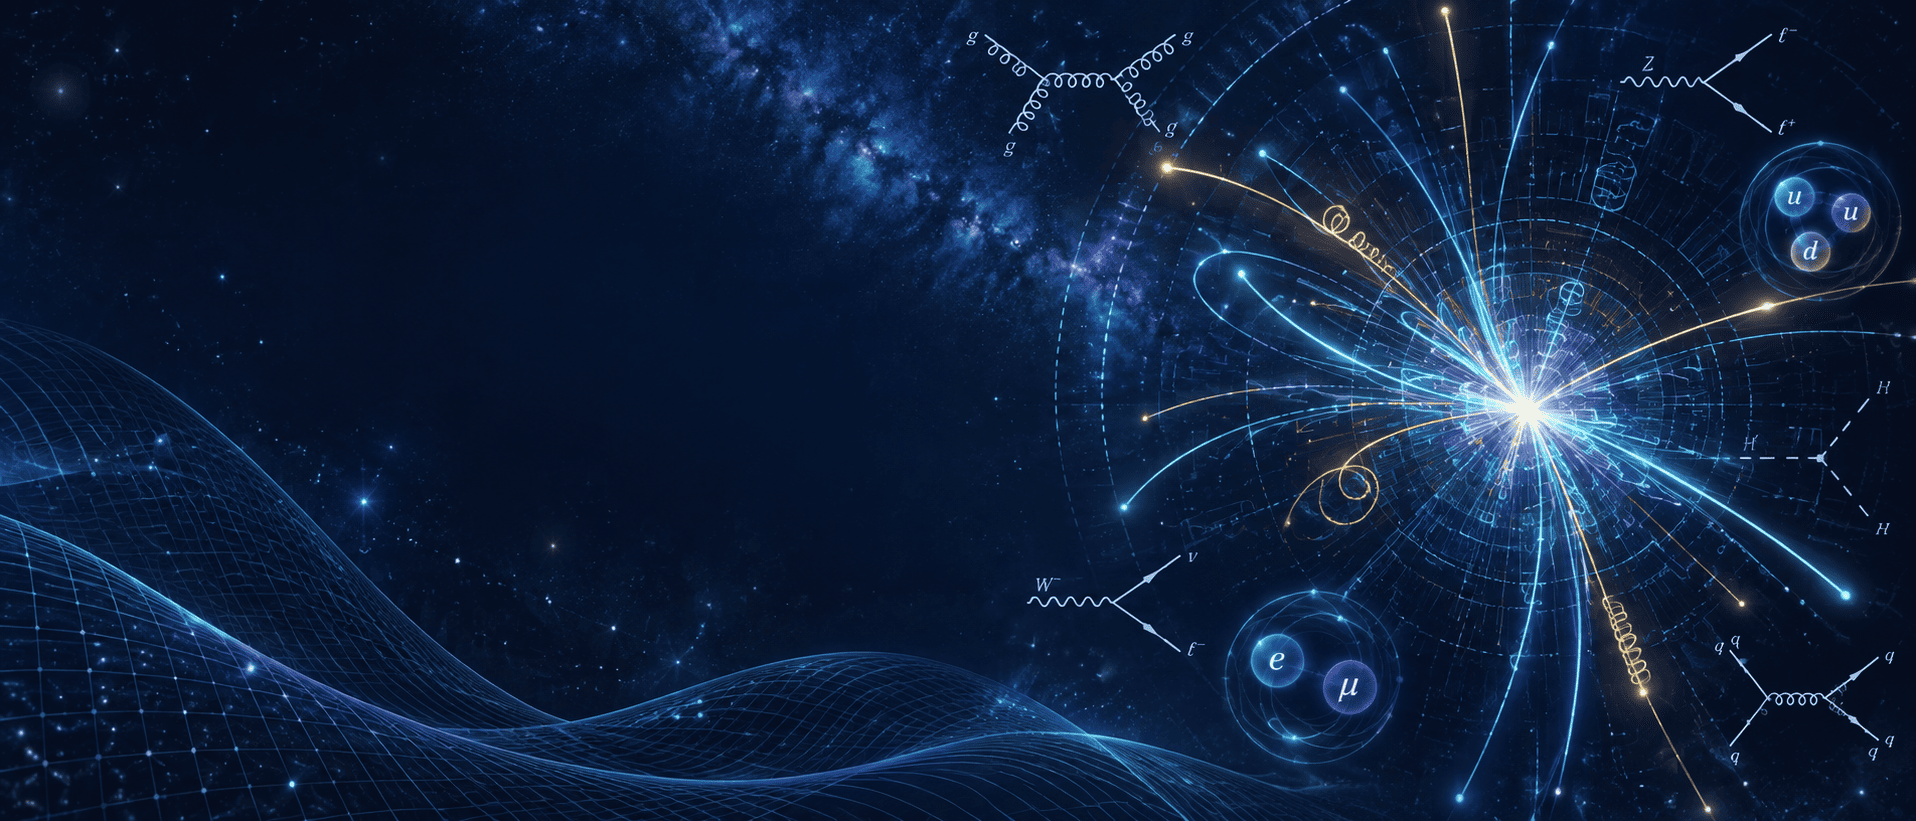
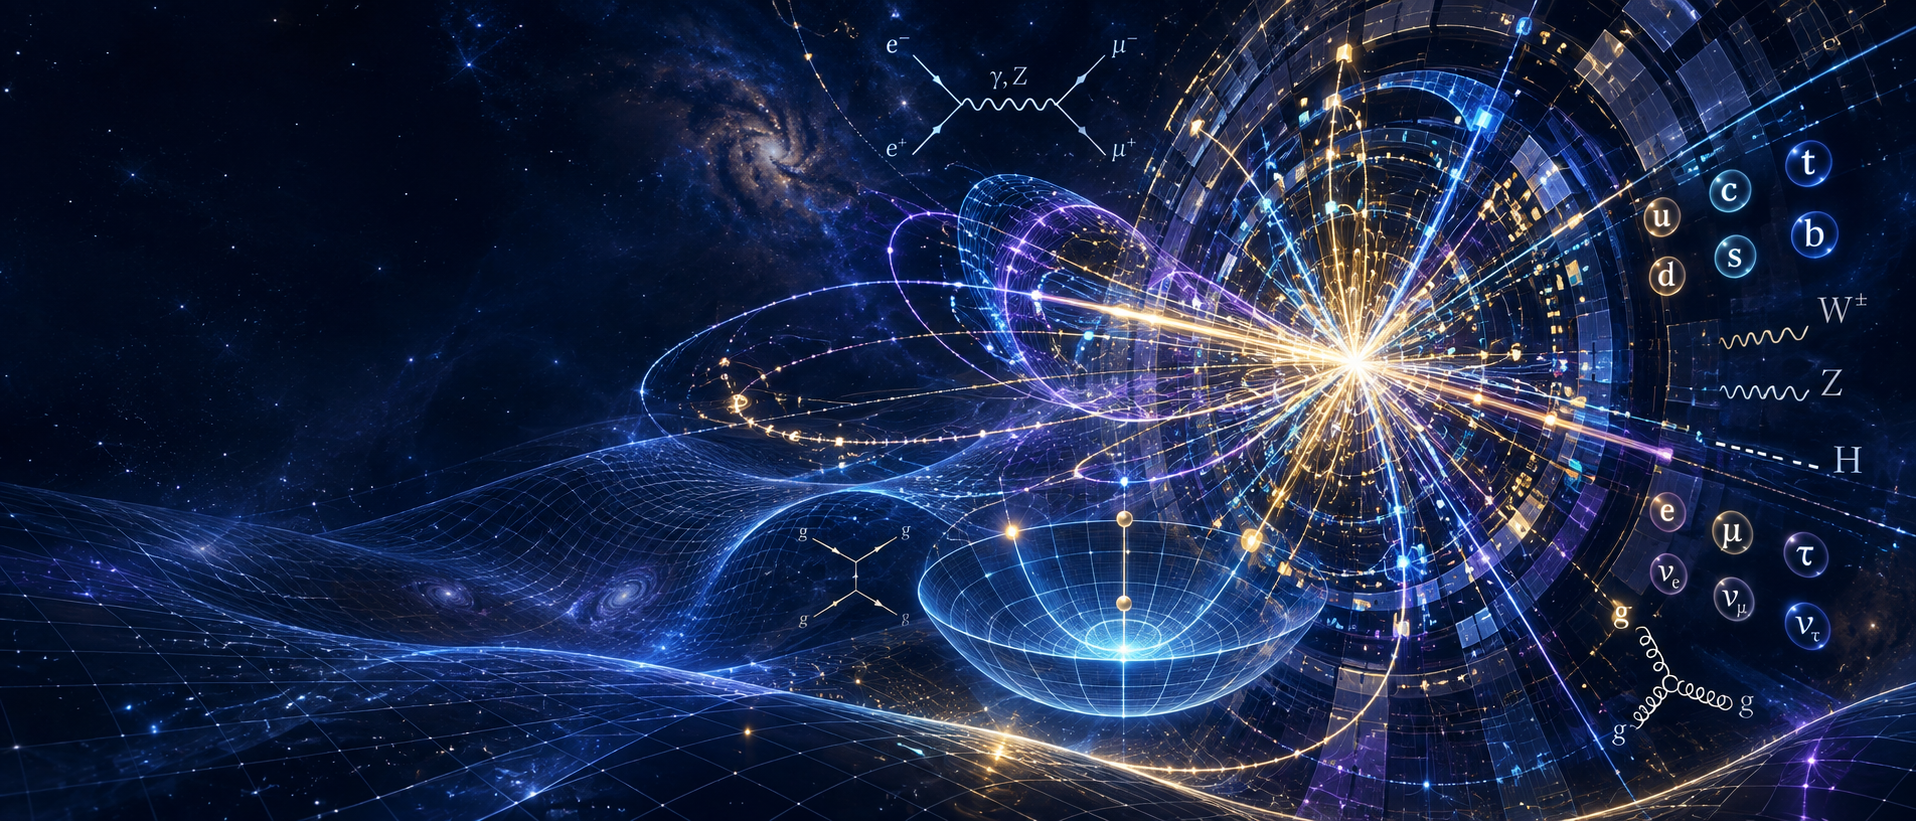
2026 Fall online meeting update

diff --git a/docs/_online/26-09-29 QFT Exercise 1.md b/docs/_online/26-09-29 QFT Exercise 1.md
@@ -1,0 +1,77 @@
+---
+layout: online
+title: "QFT Exercise 1"
+date: 2026-09-29 19:00 +0900
+series: "2026 Fall Joint Meeting"
+speaker: "Yurang Ko"
+note: "Joint Study"
+textbook: "Matthew D. Schwartz, Quantum Field Theory and the Standard Model"
+# video:
+#   url: ""
+#   display: "embed"
+overview: >
+  <em>Note: This summary was generated with the assistance of AI and may not capture every detail of the discussion.</em> <br><br>
+
+  <big><strong>Components of the Lorentz Group</big></strong> <br>
+
+  The discussion began with the disconnected components of the Lorentz group. Lorentz transformations can be classified according to the sign of their determinant and whether they preserve the direction of time. These conditions produce four components associated with the identity-connected sector, parity, time reversal, and the combined parity–time-reversal transformation. <br>
+
+  Continuous infinitesimal transformations are normally restricted to the proper orthochronous Lorentz group, which has determinant +1, preserves time orientation, and is continuously connected to the identity. Parity and time reversal are discrete transformations belonging to separate components and must therefore be treated independently. The transformation properties of delta functions and invariant integration measures under these transformations were also considered. <br><br>
+
+  <big><strong>Noether Currents for Lorentz Transformations</big></strong> <br>
+
+  Infinitesimal Lorentz transformations were used to derive the corresponding conserved Noether current. The variations of spacetime coordinates and fields were inserted into the variation of the Lagrangian, and the resulting terms were reorganized into a total divergence. <br>
+
+  The antisymmetry of the infinitesimal Lorentz parameter played an important role in the derivation. In particular, the contraction of an antisymmetric Lorentz parameter with a symmetric tensor vanishes, simplifying the variation and identifying the conserved current associated with Lorentz invariance. <br><br>
+
+  <big><strong>Angular Momentum and the Energy–Momentum Tensor</big></strong> <br>
+
+  The Lorentz current was decomposed into orbital and intrinsic-spin contributions. Its orbital part was constructed from spacetime coordinates and the energy–momentum tensor, while the spin current accounted for the transformation of fields carrying nonzero spin. <br>
+
+  The conserved charges associated with spatial rotations and Lorentz boosts were examined. This led to a discussion of the relationship between the relativistic center of energy, the center-of-momentum frame, and the boost generators. Antisymmetrization of the Lorentz indices was used to verify the structure of the angular-momentum current. <br><br>
+
+  <big><strong>Total Derivatives and Improvement Terms</big></strong> <br>
+
+  The effect of adding a total derivative to the Lagrangian was analyzed. Such an addition does not change the Euler–Lagrange equations under the usual boundary conditions, but it can modify the canonical energy–momentum tensor and the associated expression for the Noether current. <br>
+
+  This observation motivated a discussion of improvement terms. A divergence term can be added to the canonical energy–momentum tensor without changing its conserved four-momentum, provided that the added superpotential has the appropriate antisymmetry. The resulting freedom shows that the local expression for the energy–momentum tensor is not generally unique. <br><br>
+
+  <big><strong>Symmetrization of the Energy–Momentum Tensor</big></strong> <br>
+
+  The canonical energy–momentum tensor was noted to be generally asymmetric. The problem of constructing an appropriate improvement term that makes it symmetric was therefore considered, including the Belinfante–Rosenfeld procedure, which combines the canonical tensor with derivatives of the spin current. <br>
+
+  Questions were also raised about how gauge conditions, including the Lorenz gauge, affect the form of the improved tensor. The symmetry or antisymmetry required of the improvement superpotential was distinguished from the desired symmetry of the final energy–momentum tensor. The extent to which the improved tensor is unique, and how total-derivative modifications of the Lagrangian affect it, was left for further examination. <br><br>
+
+  <big><strong>Scalar Potentials and Spontaneous Symmetry Breaking</big></strong> <br>
+
+  A separate calculation involving a scalar-field Lagrangian and its potential was discussed. The ground state was determined by minimizing the potential, and a degenerate set of nonzero minima was interpreted in terms of spontaneous symmetry breaking, as in the standard Mexican-hat potential. <br>
+
+  Several mathematical techniques for simplifying the relevant equations and integrals were reviewed, including integration by parts and trigonometric substitutions. Possible applications of similar potential-based descriptions to models of nuclear interactions were also considered, and the session concluded with a review of the remaining algebraic details. <br>
+timetable:
+  - time: "19:00 - 21:00"
+    title: "QFT Exercise 1"
+    speaker: "Yurang Ko"
+    material_id: ""
+participants: 
+  - name: Yurang Ko
+    affiliation: Kyungpook National University
+  - name: In Jung Kim
+    affiliation: Chungnam National University
+  - name: Yoogeun Kim
+    affiliation: Kyungpook National University
+  - name: Ju Hyeong Kang
+    affiliation: Pusan National University
+  - name: Sangjin Mun
+    affiliation: Pusan National University
+  - name: Chang Hyeon Lee
+    affiliation: Chungnam National University
+hero:
+  image: "/assets/img/heros/online_default.jpg"
+  lines:
+    - text: "QFT Exercise 1"
+      style: title
+    - text: "Yurang Ko"
+      style: subtitle
+    - text: "2026.09.29 (Tue)"
+      style: text
+---

diff --git a/docs/_online/26-10-01 Lie Groups.md b/docs/_online/26-10-01 Lie Groups.md
@@ -1,0 +1,31 @@
+---
+layout: online
+title: "Lie Groups"
+date: 2026-10-01 17:00 +0900
+series: "2026 Fall Joint Meeting"
+speaker: "Sangjin Mun"
+note: "Joint Study"
+textbook: "Howard Georgi, Lie Algebras in Particle Physics"
+# video:
+#   url: ""
+#   display: "embed"
+overview: >
+  None.
+timetable:
+  - time: "17:00 - 19:00"
+    title: "Lie Groups"
+    speaker: "Sangjin Mun"
+    material_id: ""
+participants: 
+  - name: Sangjin Mun
+    affiliation: Pusan National University
+hero:
+  image: "/assets/img/heros/online_default.jpg"
+  lines:
+    - text: "Lie Groups"
+      style: title
+    - text: "Sangjin Mun"
+      style: subtitle
+    - text: "2026.10.01 (Thu)"
+      style: text
+---
